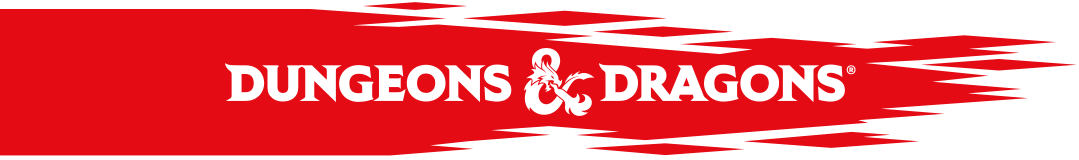
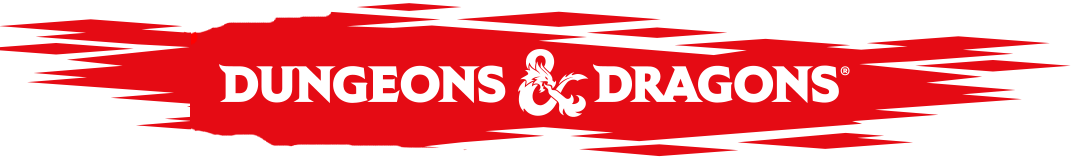
update

diff --git a/startups/João Neves/projeto.css b/startups/João Neves/projeto.css
@@ -8,7 +8,7 @@
 
     width: 1500px;
     margin: 30px auto;
-    background: #eee;
+    background: #ffcc99;
 }
 /* Header and footer */
 .geral{
@@ -25,61 +25,102 @@
 }
 .header{
     text-align: center;
-    background-color: black;
-    color: #fff;
+    background-color: #ffcc99;
+    color: #ffcc99;
     font-size: 30px;
     grid-column: 1/-1;
 }
-
+a{
+    text-decoration: none;
+}
 .smallbox1{
     color: #fff;
     background-color: red;
     font-size: 30px;
     grid-row: 2;
     grid-column: 1/2;
+    
 }
 .smallbox2{
-    background-color:  red;
+    background-color:  transparent;
     color: #fff;
     font-size: 30px;
     grid-row: 2;
     grid-column: 2/3;
 }
 .smallbox3{
-    background-color:  red;
+    background-color: transparent;
     color: #fff;
     font-size: 30px;
     grid-row: 2;
     grid-column: 3/4;
 }
 .maincontent{
-    background-color:  red;
+    background-color:  black;
     color: #fff;
     font-size: 30px;
     grid-row: 3;
     grid-column: 1/4;
+    text-align: center;
 }
 .sidebar{
-    background-color:  red;
-    color: #fff;
+    background-color:  #ffcc99;
+    color: white;
     font-size: 30px;
     grid-column: 4/5;
     grid-row: 2/4;
+    text-align: center;
 }
 .footer{
-    background-color:  red;
-    color: #fff;
+    background-color: grey;
+    color: white;
     font-size: 30px;
     grid-column: 1/-1;
+    text-align: center;
 }
+/* imagens */
 .banner{
     background-image: url('banner.png');
-
+    background-repeat: no-repeat;
     background-position: center;
 }
 .imagem1{
     background-image: url('imagem1.jpg');
+    height: 70%;
+    width: 100%;
+    background-position: center;
+    text-align: center;
+    
+}
+.imagem2{
+    background-image: url('Products.jpg');
+    height: 70%;
+    width: 100%;
+    background-position: center;
+    background-repeat: no-repeat;
+    text-align: center;
+}
+.imagem3{
+    background-image: url('imagem3.jpg');
+    height: 70%;
+    width: 100%;
+    background-position: right;
+    background-repeat: no-repeat;
+    text-align: center;
+}
+.imagemmain{
+    background-image: url('maincontent.jpg');
+    height: 90%;
+    width: 100%;
+    background-position: center;
+    background-repeat: no-repeat;
+    text-align: center;
+}
+.produto1{
+    background-image: url('tyranny.png');
     height: 100%;
     width: 100%;
     background-position: center;
+    background-repeat: no-repeat;
+    text-align: center;
 }

diff --git a/startups/João Neves/index.html b/startups/João Neves/index.html
@@ -5,17 +5,26 @@
     <meta name="viewport" content="width=device-width, initial-scale=1.0">
     <meta http-equiv="X-UA-Compatible" content="ie=edge">
     <link rel="stylesheet" href="projeto.css">
-    <title>D&D Basic Rules</title>
+    <title>D&D Main Page</title>
 </head>
 <body>
     <div class="container">
-        <div class="geral  header banner"></div>
-        <div class="geral  smallbox1 imagem1">Regras Basicas</div>
-        <div class="geral  smallbox2">Produtos</div>
-        <div class="geral  smallbox3">Monstros</div>
-        <div class="geral  sidebar">Sidebar</div>
-        <div class="geral  maincontent">Onde começar</div>
-        <div class="geral  footer">Footer</div>
+        <div class="geral   header banner"></div>
+        <a href="Regras.html"><div class="geral  smallbox1 imagem1">Regras Basicas</div></a>
+        <a href="Produtos.html"><div class="geral  smallbox2 imagem2">Produtos</div></a>
+        <a href="Monstros.html"><div class="geral  smallbox3 imagem3">Monstros</div></a>
+        <div class="geral  sidebar produto1">Produto mais vendido<br><br>
+            Tyranny of Dragons
+        </div>
+        <div class="geral  maincontent imagemmain">
+            O que é D&D?<br><br>
+
+            New to the world of Dungeons & Dragons? Here's the place to start. Take a closer look at this legendary fantasy role-playing game and find out why millions of players worldwide have stepped into the boots of mighty heroes (and sneaky antiheroes) to create their own stories.
+        </div>
+        <div class="geral  footer">
+            Social<br><br>
+            
+        </div>
     </div>
 </body>
 </html>

diff --git a/startups/João Neves/Monstros.html b/startups/João Neves/Monstros.html
@@ -1,0 +1,12 @@
+<!DOCTYPE html>
+<html lang="en">
+<head>
+    <meta charset="UTF-8">
+    <meta name="viewport" content="width=device-width, initial-scale=1.0">
+    <meta http-equiv="X-UA-Compatible" content="ie=edge">
+    <title>Document</title>
+</head>
+<body>
+    Monstros
+</body>
+</html>

diff --git a/startups/João Neves/Produtos.html b/startups/João Neves/Produtos.html
@@ -1,0 +1,12 @@
+<!DOCTYPE html>
+<html lang="en">
+<head>
+    <meta charset="UTF-8">
+    <meta name="viewport" content="width=device-width, initial-scale=1.0">
+    <meta http-equiv="X-UA-Compatible" content="ie=edge">
+    <title>Document</title>
+</head>
+<body>
+    Produtos
+</body>
+</html>

diff --git a/startups/João Neves/Regras.html b/startups/João Neves/Regras.html
@@ -1,0 +1,12 @@
+<!DOCTYPE html>
+<html lang="en">
+<head>
+    <meta charset="UTF-8">
+    <meta name="viewport" content="width=device-width, initial-scale=1.0">
+    <meta http-equiv="X-UA-Compatible" content="ie=edge">
+    <title>Document</title>
+</head>
+<body>
+    Regras
+</body>
+</html>
